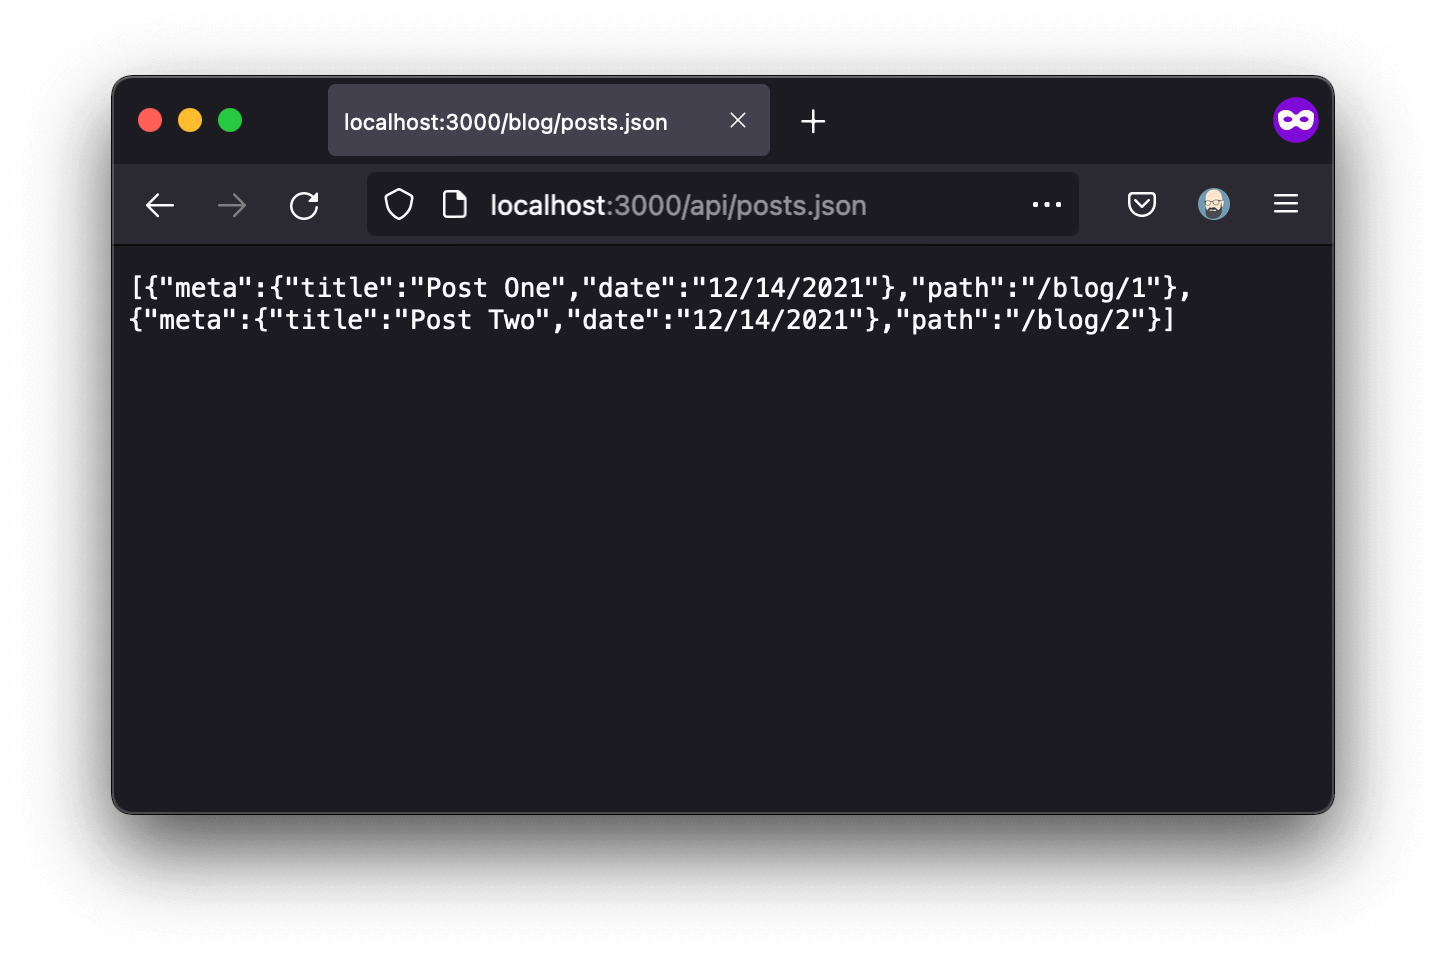
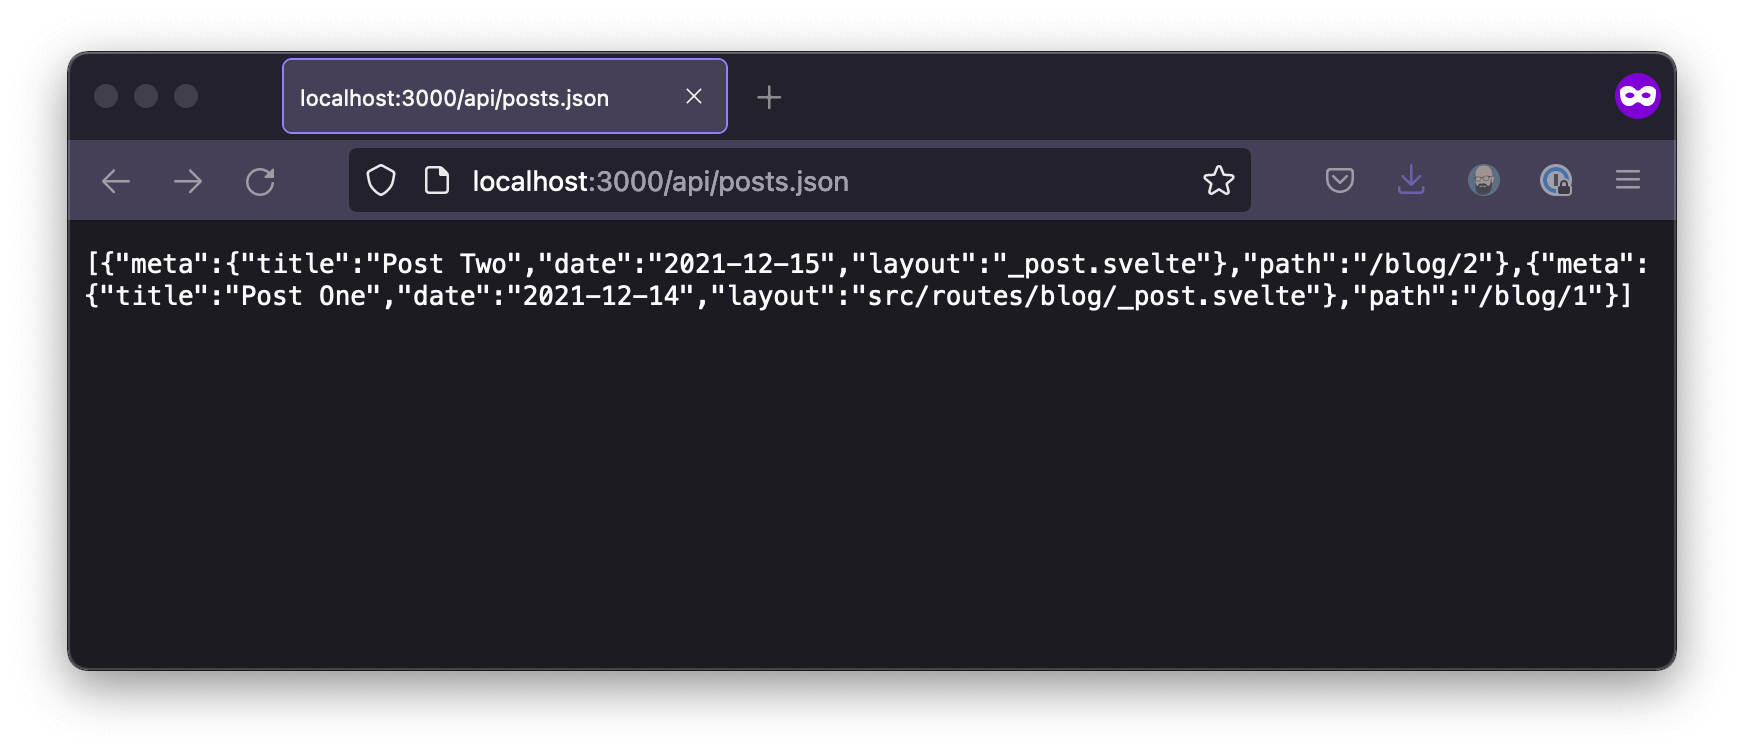
More work on the post; a little more typography updates

Changed region(s): [[0.0311, 0.061, 0.9959, 0.9456]]

diff --git a/src/lib/assets/scss/_typography.scss b/src/lib/assets/scss/_typography.scss
@@ -5,12 +5,7 @@ body {
 
 ul,
 ol {
-	margin: 0;
-}
-
-p + ul,
-p + ol {
-	margin: calc(var(--rhythm) * 1) 0 calc(var(--rhythm) * 2);
+	margin: var(--rhythm) 0 calc(var(--rhythm) * 2)
 }
 
 main ul:not(.toc) {

diff --git a/src/routes/blog/_posts/build-static-sveltekit-markdown-blog.md b/src/routes/blog/_posts/build-static-sveltekit-markdown-blog.md
@@ -480,10 +480,6 @@ If you'd like to get into the details of that config:
 - The `extensions` config property tells Svelte what types of files to treat as components (allowing them to be imported and used in the same way Svelte components are);
 - The `mdsvex()` function preprocesses Markdown to HTML--but it only targets `.svx` files by default, so we modify that as an argument.
 
-<SideNote>
-The default mdsvex extension is <code>.svx</code>, which is why we need to specify <code>.md</code>.
-</SideNote>
-
 **Reminder:** be sure to restart your dev server after making config changes. 
 
 _If you're running into errors, double-check that everything installed properly, all the necessary imports are present in your config file, and there are no syntax errors in the config file._
@@ -619,11 +615,9 @@ However, what we're seeing above is only the content. We _also_ want to display 
 
 mdsvex lets us designate a layout--that is, a Svelte component--to render Markdown files, much the same way that SvelteKit layouts render pages.
 
-<SideNote>
-SvelteKit layouts and mdsvex layouts are very similar, but serve slightly different purposes. SvelteKit layouts render <em>all</em> types of pages, live in <code>src/routes</code>, and automatically apply by naming convention.<br /><br />By contrast, mdsvex layouts only render Markdown content, could be named anything or live anywhere, and are designated explicitly.
-</SideNote>
+The two are similar, but not to be confused. Unlike SvelteKit layouts, there's no convention to follow with the naming or placement of mdsvex layouts; it's all explicit config.
 
-Unlike SvelteKit layouts, there's no convention to follow with the naming or placement of mdsvex layouts (it's all config). But we'll name ours `_post.svelte`, and put it in `src/routes/blog`, just to keep related things close together.
+We'll name our layout `_post.svelte`, and put it in `src/routes/blog`, just to keep related things close together.
 
 ```fs
 📂 src
@@ -632,7 +626,7 @@ Unlike SvelteKit layouts, there's no convention to follow with the naming or pla
     ┗ 📜 _post.svelte
 ```
 
-**Why the underscore?** Anything in `src/routes` that begins with an underscore is [private](https://kit.svelte.dev/docs#routing-private-modules), i.e., hidden from the router. Since this layout file will just serve as a template and won't have content of its own, we don't want it to have its own route or be directly visited.
+**Why the underscore?** Anything in `src/routes` that begins with an underscore is a [private module](https://kit.svelte.dev/docs#routing-private-modules), i.e., excluded from the router. Since this layout file will just serve as a template and won't have content of its own, we don't want it to have its own route or be directly visited.
 
 Once the file is created, head back to `svelte.config.js` and add a `layout` property to the `mdsvex` function options. (_Note that the path must be relative_.) And as always, be sure to restart the dev server after making the change.
 
@@ -717,11 +711,11 @@ Endpoints work the same way as pages, as far as routing. But where pages return 
 
 There are just three important conventions to follow when creating an endpoint with SvelteKit:
 
-1. **An endpoint's route should include the data type it returns.** For example, `src/routes/stuff.json.js` would be a route at `/stuff.json`. (Endpoint data is usually JSON, but it doesn't have to be.)
-2. **An endpoint should export a function for each HTTP verb it accepts.** (`get()`, `post()`, etc. The one exception is `del()`, since `delete` is a reserved keyword in JavaScript.)
-3. **Endpoint functions should return an object with `status` and `body`.** (Returning nothing is a 404 by default; status is 200 by default when returning a `body`.)
+1. **An endpoint's route should include the data type it returns.** For example, `/api/posts.json`. (Endpoint data is usually JSON, but it doesn't have to be.)
+2. **An endpoint should export a function for each [HTTP verb](https://developer.mozilla.org/en-US/docs/Web/HTTP/Methods) it accepts.** This will often just be a `get` function, but you can also use `post`, etc.
+3. **Endpoint functions should return an object with `status` and `body`.** (Returning nothing is a 404 by default.)
 
-It's less complicated than it sounds, though, so let's dive in.
+There's more detail in the [endpoint docs](https://kit.svelte.dev/docs#routing-endpoints), but it's less complicated than it sounds, so let's dive in.
 
 
 ### Creating an endpoint for our posts
@@ -735,9 +729,13 @@ Since we might decide to add more endpoints later, let's create a `src/routes/ap
     ┗ 📜 posts.json.js
 ```
 
-Inside our new `posts.json.js` file, we'll need to export a `get` method (since "get" is the HTTP verb we'll accept; this endpoint will only return data, not accept it).
+<SideNote>
+The file extension is removed from the end of all routes, so this endpoint will just be <code>/api/posts.json</code>.
+</SideNote>
 
-Before we get to specifics, let's just do a quick test to see it in action:
+Inside this new file, we'll need to export a `get` method (since "get" is the HTTP verb we'll accept; this endpoint will only return data, not accept it).
+
+Let's do a quick test, just to see it in action:
 
 ```js
 // posts.json.js
@@ -753,10 +751,10 @@ With that in place, we should be able to visit `/api/posts.json` and see the fol
 
 !['We got here!'](/images/post_images/sveltekit-dummy-json.png)
 
-How _cool_ is it that!? Our API route doesn't return anything useful just yet, obviously, but it's still pretty awesome to have it up and running that easily.
+How _cool_ is it that!? Our API route doesn't return anything useful just yet, obviously, but it's still pretty awesome to have it up and running that easily!
 
 <SideNote>
-While we won't do it here, you can pass an argument to the <code>get</code> function, which will contain all the headers, query parameters, and lots of other info about the request.
+While we won't add it here, you can add an argument to <code>get</code>, which will pass in all the headers, query parameters, and lots of other info about the request.
 </SideNote>
 
 
@@ -796,37 +794,27 @@ export const get = async () => {
 }
 ```
 
-**Whoa!** Again, that might look like a lot, but when you consider it's actually _everything_ we need to create an API endpoint to return _all_ our site's posts, it's kind of remarkable how few lines that is!
+**Whoa!** Again, that might look like a lot, but when you consider it's actually _everything_ we need to create an API endpoint to return _all_ our site's posts, it's kind of remarkable how few lines that is.
 
 **Let's go over what's happening in that code:**
 
 - `import.meta.glob` is a Vite function. It imports any files that match the glob (wildcard string) provided--in this case, all `.md` files inside `src/routes/blog`.
   - That function returns an object where each file's relative path is the key, and the value is a "resolver" function (my term; not official) that loads the file contents as a JavaScript promise. 
 - The `map` method is there to shape the file data, so it's easier to work with on the front end. (And since each item waits for a promise, we wrap it in an `await Promise.all`.)
-  - Extracting the route based on the file path is kind of an ugly hassle because it involves a bunch of string manipulation, but since we know the file structure and glob beforehand, this gets the job done pretty safely.
+  - Extracting the route from the file path is ugly, but since we know the file structure and glob beforehand, this gets the job works fairly safely.
 - Next, we sort the posts by descending date (since this is a blog, of course, and we'll want our newest posts showing first).
-- Finally, we convert the finished product to JSON and `return` it as the `body` of our API response. (The 200 status code is implicit here.)
+  - Note that your posts will need a validly formatted `date` frontmatter property for this to work.
+- Finally, we convert the finished product to JSON and `return` it as the `body` of our API response. (The 200 status code is implicit here, since we're successfully returning a `body`.)
 
 **Let's try it out!** Refresh your `/api/posts.json` path now, and you should see some _real_ data!
 
 ![The data from our posts is now coming through as JSON!](/images/post_images/sveltekit-posts-json.png)
 
+<SideNote>
+Notice the <code>layout</code> property is being automatically injected into file's metadata, because of our mdsvex config.
+</SideNote>
+
 Even cooler: this route will update automatically with each Markdown post we add!
-
-
-#### Other considerations and improvements
-
-There's plenty to improve here. For starters, we'll definitely want to put the code we just wrote into a `try`/`catch` block that returns the proper status code when things go wrong.
-
-This function also does a lot, and could be refactored a bit. (Sorting the dates, for example, could probably be extracted to its own utility function. So could the string manipulation.)
-
-We'll also probably want to add some other extra features to this API route eventually. We might want pagination features, for example, since depending on the number of posts, returning _all_ of them might get prohibitively time-intensive.
-
-Another possible future enhancement would be adding the post's content to the returned JSON, which we don't do currently. The "resolver" function offers a `default.render.html` method for that, if you so choose.
-
-Finally, you could build in some post filtering, but it might be better to build out a dynamic endpoint for that. The [SvelteKit docs section on Rest parameters](https://kit.svelte.dev/docs#routing-advanced-rest-parameters) is worth a look as far as that goes.
-
-Anyway, we'll worry about all that later (if at all). For now, it's working great, and we can use our new endpoint to finish our blog index page!
 
 
 ## Finishing the blog index page
@@ -1025,7 +1013,7 @@ I pulled my example from [this guide](https://www.davidwparker.com/posts/how-to-
 
 It's nice to let users link directly to a section of a post. Manually adding links to all our headings would be tedious, however, and goes against the point of writing in Markdown.
 
-Luckily, mdsvex allows us to use [rehype](https://github.com/rehypejs/rehype) plugins to add extra features to markdown processing, and so we can make this all happen automatically with just a bit of config adjustment.
+Luckily, mdsvex allows us to use many [rehype](https://github.com/rehypejs/rehype) plugins to add extra features to markdown processing, and so we can make this all happen automatically with just a bit of config adjustment.
 
 <SideNote>
 Rehype is an HTML parser, and not specific to Svelte or mdsvex; it's commonly used in a wide range of projects.
@@ -1070,9 +1058,7 @@ export default config;
 
 **Important note: the plugins _must_ go in that order!** `rehypeSlug` adds IDs to our headings, and `rehypeAutolinkHeadings` only works on headings that have IDs. (Fun fact: I discovered these two were in the wrong order on _this_ site while writing this, when I suddenly realized it was only half working.)
 
-With that in place, once again, we'll need to restart our dev server.
-
-Now pop open the inspector and check out an `h2` through `h6` generated from Markdown, and we'll see some additions:
+With that in place, restart the dev server. Now pop open the inspector and check out an `h2` through `h6` generated from Markdown, and we'll see some additions:
 
 ![The headings in our blog posts now have links to them, with icon elements inside.](/images/post_images/sveltekit-rehype.png)
 
@@ -1106,28 +1092,28 @@ How you choose to handle this is personal preference, but this block of Sass sho
 }
 ```
 
-That CSS will make a pound sign (or hash, or "octothorpe," if you're fancy) appear whenever the user hovers on a heading with a link in it:
+That CSS will make a pound sign (or hash, or "octothorpe," if you're fancy) appear whenever the user hovers on a heading with a `.icon-link` in it:
 
 ![A pound symbol appears to the left of a hovered heading.](/images/post_images/sveltekit-rehype-css.png)
 
 Thanks to how CSS treats pseudo elements, that icon is fully clickable as part of the link, to navigate directly to the heading in question.
 
-You could _also_ add some JavaScript to handle automatically copying the link to the clipboard (probably with some JavaScript inside a Svelte component's `onMount` function), but I'll leave that detail up to you. For now, our links are at least present and working, even if they're not quite ideal yet.
+You could _also_ add some JavaScript to handle automatically copying the link to the clipboard (probably with some JavaScript inside a Svelte component's `onMount` function), but I'll leave that detail up to you. For now, our links are at least present and working, even if they might not be ideal yet.
 
 
-### Handling page head meta tags
+### Add page head meta tags
 
-Ideally, we'll probably want to set up some stuff for the `<head>` on our various pages. For blog posts specifically, it's important to have the right `title` attributes, Open Graph info, share images, etc.
+Ideally, we'll probably want to set up some stuff for the `<head>` on our various pages. For pages in general, but posts especially, it's important to have the right `title` attributes, Open Graph info, share images, etc.
 
 SvelteKit makes this trivial, with the `<svelte:head>` component.
 
-Add one to your `[slug].svelte` file (it can go wherever, but I like to put it just before the HTML, personally), and let's put a title there.
+Add one somewhere in `_post.svelte` (I like to put it just before the HTML, personally), and let's add a title inside.
 
 ```svelte
-<!-- [slug].svelte -->
+<!-- _post.svelte -->
 <svelte:head>
-  <title>My blog - {meta.title}</title>
-  <meta property="og:title" content={meta.title} />
+  <title>My blog - {title}</title>
+  <meta property="og:title" content={title} />
 </svelte:head>
 ```
 
@@ -1135,10 +1121,38 @@ You should now see the title showing up properly in the browser bar.
 
 **There are many other properties you might want to add here**, _especially_ if you're trying to optimize your posts for share-ability. I won't go into any more detail here, but it's worth verifying all your pages and posts look good when shared with Open Graph checker tools (many are available online).
 
+At this point, we should probably go through our pages and add `<title>` tags, etc. to them as well. For example:
+
+```svelte
+<!-- about.svelte -->
+<svelte:head>
+  <title>About - Josh Collinsworth</title>
+</svelte:head>
+
+<!-- ...HTML here -->
+```
+
 Note also that SvelteKit offers several other similar elements, like `<svelte:window>` and `<svelte:body>`, where we need to tap into parts of our site or app normally outside the boundaries of our components.
 
 
-### Customizing the error page
+#### Improve the posts API endpoint
+
+The posts API is functional, but it can be improved in several ways.
+
+For starters, we'll definitely want to put the code we just wrote into a `try`/`catch` block that returns the proper status code when things go wrong.
+
+This function also does a lot, and could be refactored a bit. (Sorting the dates, for example, could probably be extracted to its own utility function. So could the string manipulation.)
+
+We'll also probably want to add some other extra features to this API route eventually. We might want pagination features, for example, since depending on the number of posts, returning _all_ of them might get prohibitively time-intensive.
+
+Another possible future enhancement would be adding the post's content to the returned JSON, which we don't do currently. The "resolver" function offers a `default.render.html` method for that, if you so choose.
+
+Finally, you could build in some post filtering, but it might be better to build out a dynamic endpoint for that. The [SvelteKit docs section on Rest parameters](https://kit.svelte.dev/docs#routing-advanced-rest-parameters) is worth a look as far as that goes.
+
+Anyway, we'll worry about all that later (if at all). For now, it's working great, and we can use our new endpoint to finish our blog index page!
+
+
+### Customize the error page
 
 What you're looking at when you hit an error is SvelteKit's built-in error component. 
 
@@ -1147,7 +1161,7 @@ However, just like we can provide our own `__layout.svelte` file, we can _also_ 
 I won't go into detail here, but you can check the official [Svelte docs error pages entry](https://kit.svelte.dev/docs#layouts-error-pages) for more info.
 
 
-### Preloading routes
+### Preload routes
 
 SvelteKit is already fast, and when we pre-render our HTML like we are via the static adapter, it's going to be blazing. But we can actually push the performance _even further_ with SvelteKit's built-in preloading.
 
@@ -1183,7 +1197,7 @@ The difference between the two is:
 Because `prefetchRoutes` grabs _all_ the site's data behind the scenes, we should use it cautiously and judiciously. We don't want to force users to download megabytes of data presumptively. That could very well cost them real money, for pages they might not even look at.
 
 
-### Anchor options
+### Add anchor options
 
 Speaking of preloading: SvelteKit offers a slightly less greedy version of it, as one of its [anchor options](https://kit.svelte.dev/docs#anchor-options).
 
@@ -1194,13 +1208,9 @@ Anchor options are special, SvelteKit-specific attributes you can add to `<a>` a
 - `<a sveltekit:noscroll`> prevents SvelteKit from resetting the scroll position to the top of the new page. This is usually undesirable on websites, but may be more intuitive in some app situations.
 
 
-### Page transitions
+### Implement page transitions
 
-If you want to get fancy, adding a page transition in SvelteKit is pretty simple!
-
-To start, inside our layout, we'll need to tap into `load` to grab the current route, so we can react to it.
-
-We'll pass that route as a prop to the main script, and import `fade` from the [Svelte transition](https://svelte.dev/tutorial/transition) library.
+If you want to get fancy, adding a page transition in SvelteKit is pretty simple! Let's look at the code, then we'll go over each part of it.
 
 ```svelte
 <!-- __layout.svelte -->
@@ -1222,14 +1232,9 @@ We'll pass that route as a prop to the main script, and import `fade` from the [
 
   export let currentRoute
 </script>
-```
 
-That handled, we can use another key feature of Svelte: [the `#key` block](https://svelte.dev/tutorial/key-blocks). (See what I did there?)
+<!-- Other HTML here -->
 
-A `#key` block takes an expression, and automatically re-renders its contents whenever that expression changes. In this case, we'll use our `currentRoute`, so that the contents re-renders for every page change.
-
-```svelte
-<!-- __layout.svelte -->
 {#key currentRoute}
   <main in:fade={{ duration: 150, delay: 150 }} out:fade={{ duration: 150 }}>
     <slot />
@@ -1237,7 +1242,17 @@ A `#key` block takes an expression, and automatically re-renders its contents wh
 {/key}
 ```
 
-**That's all it takes!** Transitions are an incredibly powerful part of Svelte, and the `svelte/transition` library offers several options besides `fade`. Feel free to play around with all of them.
+- To start, in our layout, we'll need  `load` to grab the current route. We'll pass that as a prop named `currentRoute`, to be used by the component.
+- We'll use `fade` from the [Svelte transition](https://svelte.dev/tutorial/transition) library as our transition, though you could choose another if you like. The main thing is just to add `delay` to the `in` transition, so it doesn't start before the old page is done transitioning out.
+- Finally, we'll wrap the page contents in a [`#key` block](https://svelte.dev/tutorial/key-blocks).
+
+A `#key` block takes an expression, and automatically re-renders its contents whenever that expression changes. In this case, that will be the current page route, so that we can re-render the page itself every time the route changes.
+
+<Callout>
+A <code>#key</code> block takes an expression, and automatically re-renders its contents whenever that expression changes.
+</Callout>
+
+**That's all it takes!** Transitions are an incredibly powerful part of Svelte, and the `svelte/transition` library offers several options besides `fade`. Feel free to play around with them.
 
 
 
